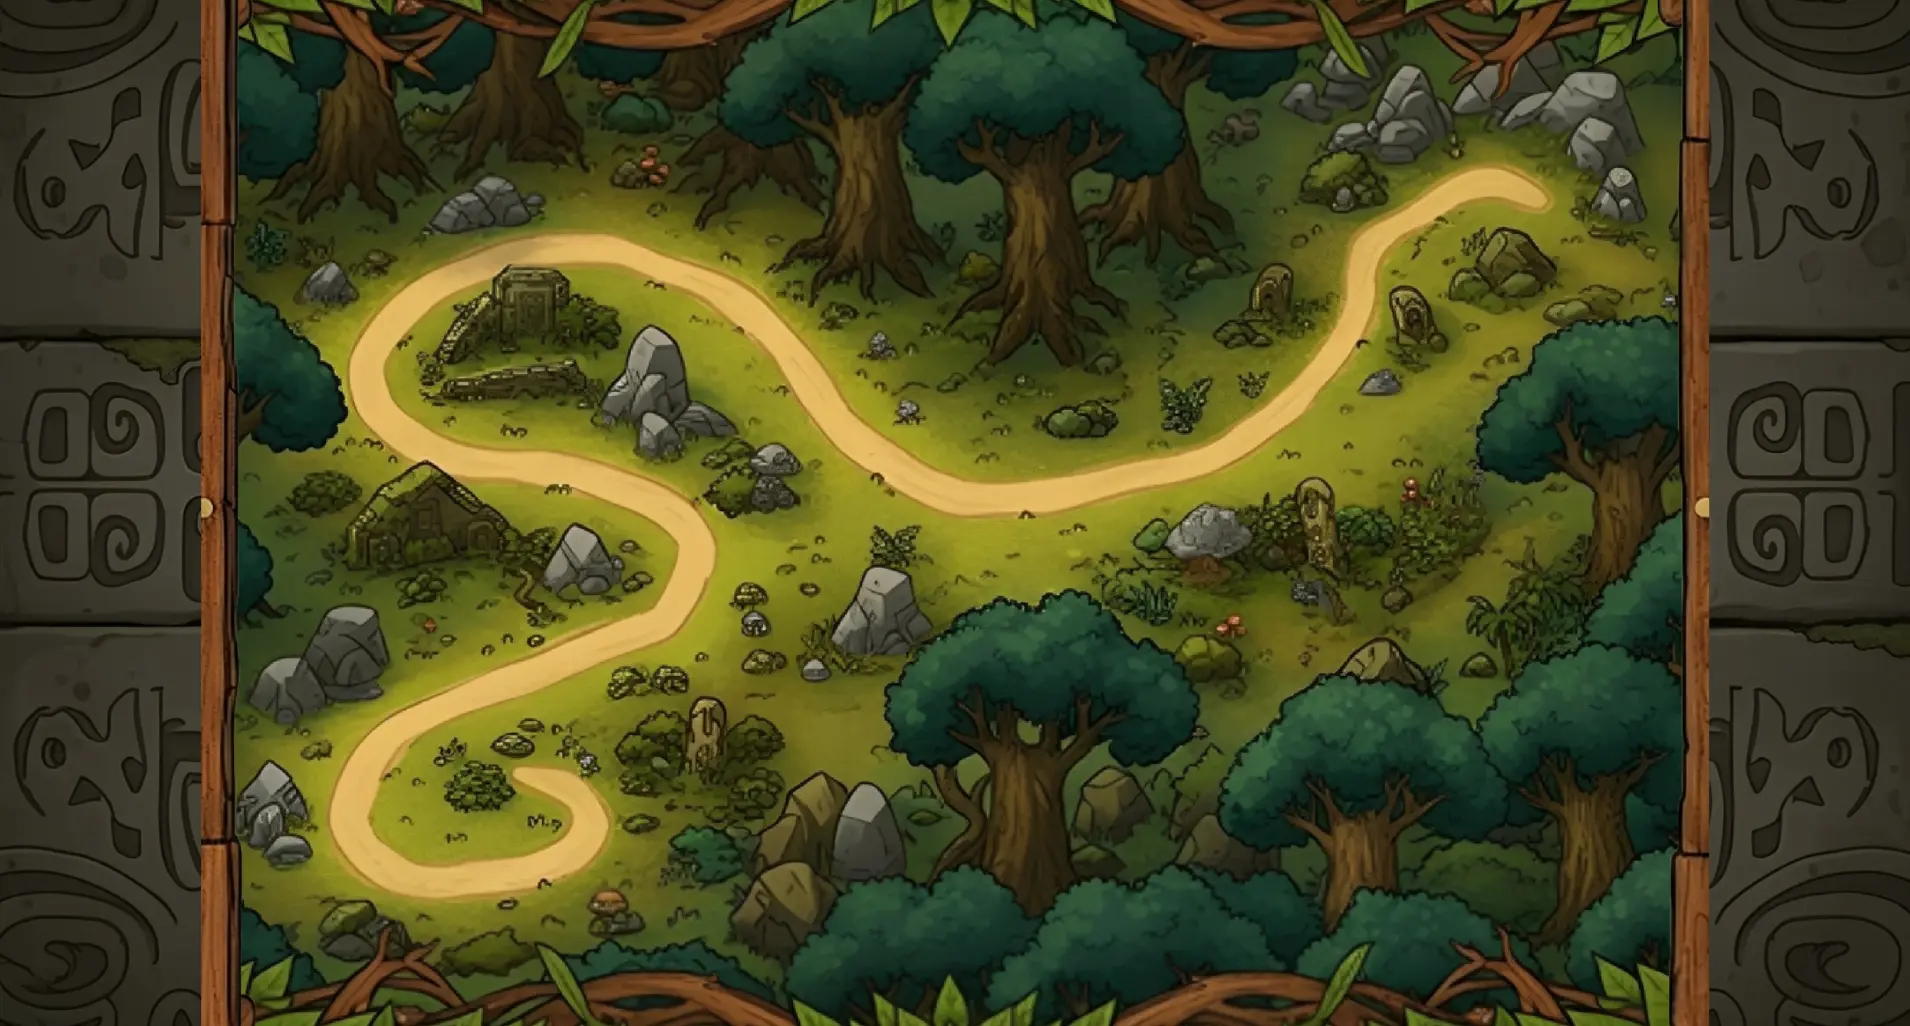
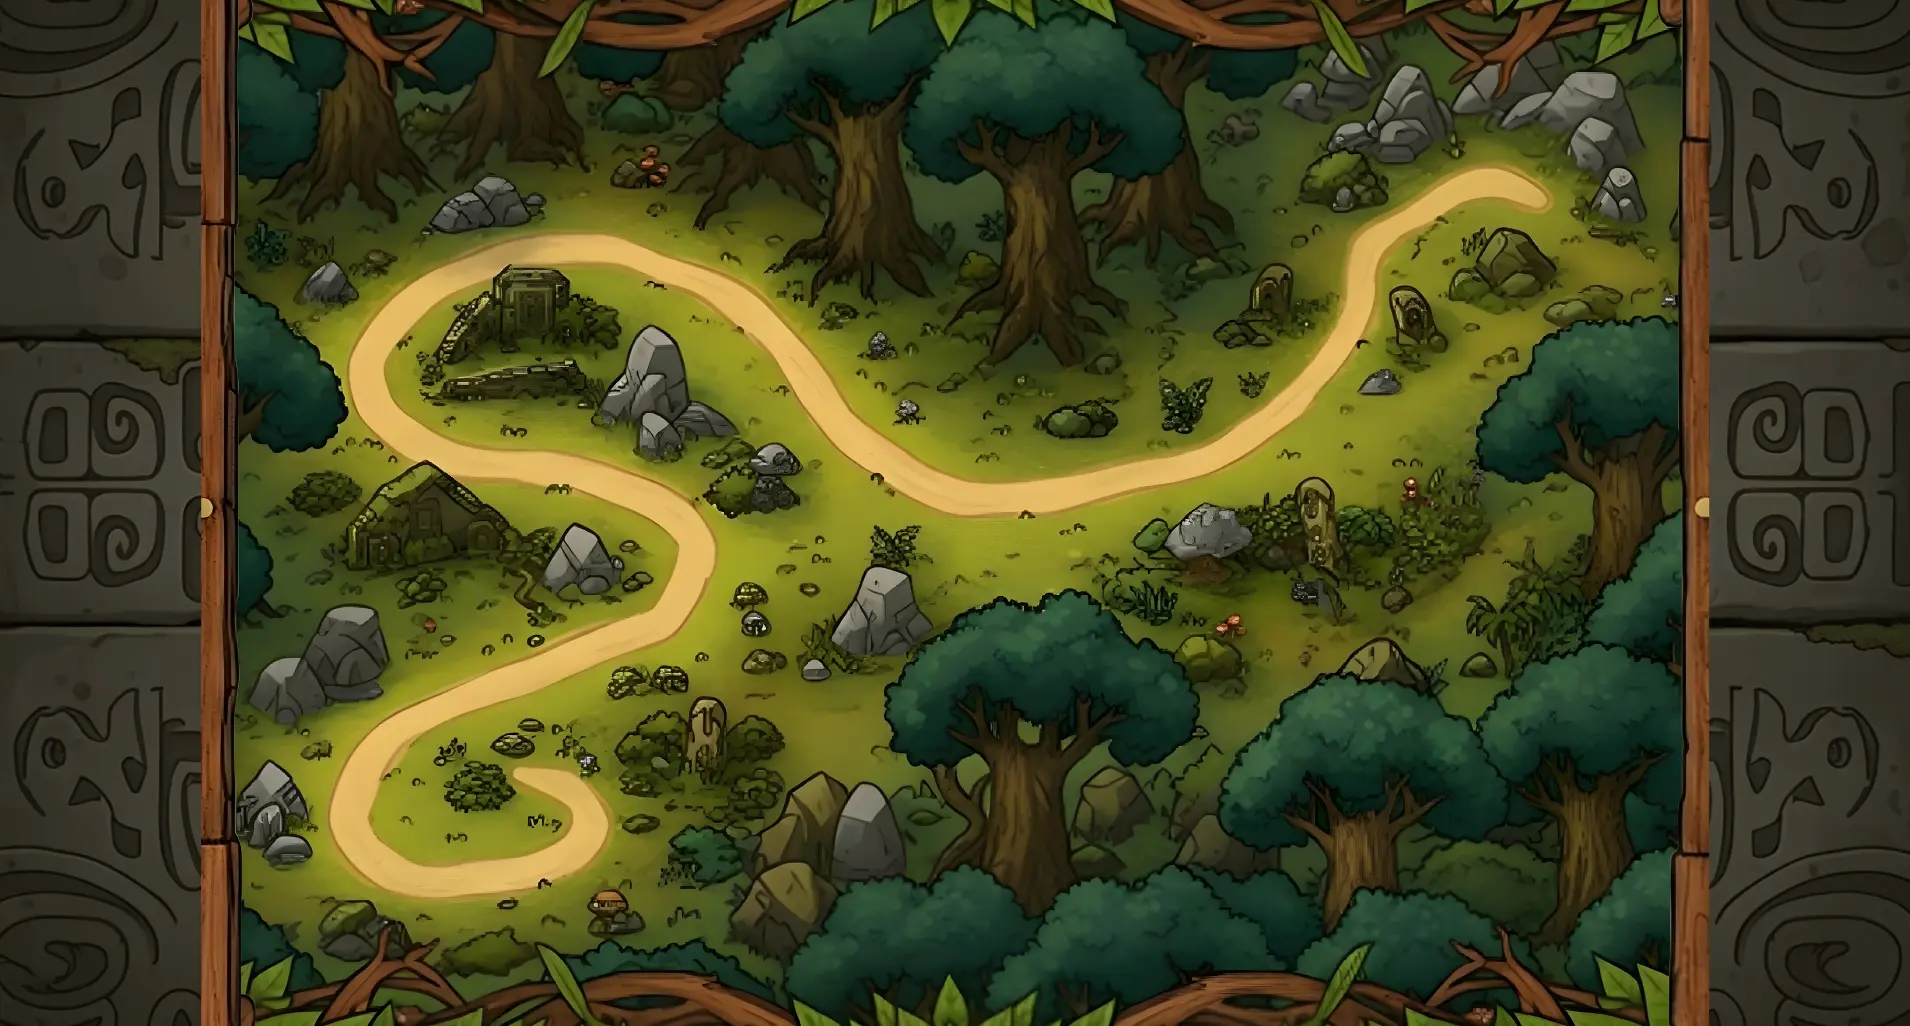
fix: corrigindo movimentação e placas

diff --git a/index.html b/index.html
@@ -12,17 +12,6 @@
     <link rel="stylesheet" href="components/styles/opcoes.css">
     <link rel="stylesheet" href="components/styles/quiz.css">
     <link rel="stylesheet" href="components/styles/tabuleiro.css">
-    <link rel="preload" href="game_assets/quiz/ilha/fundoperguntas.webp" as="image">
-    <link rel="preload" href="game_assets/quiz/ilha/pergunta.webp" as="image">
-    <link rel="preload" href="game_assets/quiz/ilha/opcoes.webp" as="image">
-    <link rel="preload" href="game_assets/quiz/acerto.webp" as="image">
-    <link rel="preload" href="game_assets/quiz/erro1.webp" as="image">
-    <link rel="preload" href="game_assets/quiz/erro2.webp" as="image">
-    <link rel="preload" href="game_assets/creditos/creditos.webp" as="image">
-    <link rel="preload" href="game_assets/opcoes/fundoescuro.webp" as="image">
-    <link rel="preload" href="game_assets/jogar/fundoescuro.webp" as="image">
-    <link rel="preload" href="game_assets/vitoria_e_derrota/Fundo_derrota.webp" as="image">
-    <link rel="preload" href="game_assets/vitoria_e_derrota/Fundo_vitoria.webp" as="image">
     <script src="components/scripts/index.js" defer></script>
 </head>
 
@@ -40,8 +29,8 @@
             <div id="quiz" class="escondido">
                 <div class="quiz_conteudo">
                     <div id="quiz_conteudo_moedas" class="quiz_conteudo_escondido">
-                        <img src="game_assets/quiz/fundoopcao.webp" loading="lazy">
-                        <img src="game_assets/quiz/acerto.webp" class="quiz_conteudo_escondido_texto" loading="lazy">
+                        <img src="game_assets/quiz/fundoopcao.webp">
+                        <img src="game_assets/quiz/acerto.webp" class="quiz_conteudo_escondido_texto">
                     </div>
                     <div id="quiz_conteudo_vidas" class="quiz_conteudo_escondido">
                     </div>
@@ -49,7 +38,7 @@
                         <section id="texto_quiz" class="quiz_conteudo_organizacao_quiz">
                             <div class="quiz_conteudo_organizacao_quiz_pergunta">
                                 <div class="quiz_conteudo_organizacao_quiz_pergunta_imagem">
-                                    <img id="imagem_pergunta" src="" loading="lazy">
+                                    <img id="imagem_pergunta" src="">
                                     <div class="quiz_conteudo_organizacao_quiz_pergunta_texto">
                                         <p id="pergunta"></p>
                                     </div>
@@ -58,7 +47,7 @@
                             <section id="opcoes" class="quiz_conteudo_organizacao_quiz_opcoes">
                             </section>
                         </section>
-                        <img src="" class="quiz_conteudo_organizacao_imagem" loading="lazy">
+                        <img src="" class="quiz_conteudo_organizacao_imagem">
                     </div>
                 </div>
             </div>
@@ -112,8 +101,7 @@
             <div id="tela_final">
                 <div id="tela_vitoria_container" class="tela_final_imagem escondido">
                     <div class="fundo_wrapper">
-                        <img src="game_assets/vitoria_e_derrota/Fundo_vitoria.webp" class="fundo_vitoria"
-                            loading="lazy">
+                        <img src="game_assets/vitoria_e_derrota/Fundo_vitoria.webp" class="fundo_vitoria">
                         <div class="vitoria_conteudo">
                             <div id="moedas_vitoria" class="moedas_final"></div>
 
@@ -121,7 +109,7 @@
                                 onclick="tocarSomClique(); fecharAba('tabuleiro'); fecharAba('aba_mapas'); esconderTelaVitoria(); reiniciarJogo()"
                                 class="reiniciar_jogo" id="reiniciar_jogo_vitoria">
                                 <div class="reiniciar_imagem">
-                                    <img src="game_assets/tabuleiro/iconebarra.webp" loading="lazy">
+                                    <img src="game_assets/tabuleiro/iconebarra.webp">
                                     <div class="menu_imagem_texto">
                                         Voltar ao Menu
                                     </div>
@@ -133,15 +121,14 @@
 
                 <div id="tela_derrota_container" class="tela_final_imagem escondido">
                     <div class="fundo_wrapper">
-                        <img class="fundo_derrota" src="game_assets/vitoria_e_derrota/Fundo_derrota.webp"
-                            loading="lazy">
+                        <img class="fundo_derrota" src="game_assets/vitoria_e_derrota/Fundo_derrota.webp">
                         <div class="derrota_conteudo">
                             <div id="moedas_derrota" class="moedas_final"></div>
 
                             <button onclick="tocarSomClique(); esconderTelaDerrota(); reiniciarJogo()"
                                 class="reiniciar_jogo" id="reiniciar_jogo_derrota">
                                 <div class="reiniciar_imagem">
-                                    <img src="game_assets/tabuleiro/iconebarra.webp" loading="lazy">
+                                    <img src="game_assets/tabuleiro/iconebarra.webp">
                                     <div class="reiniciar_imagem_texto">
                                         Reiniciar
                                     </div>
@@ -311,7 +298,8 @@
                     </button>
                 </div>
 
-            </div> </div>
+            </div>
+        </div>
     </main>
 </body>
 

diff --git a/components/scripts/index.js b/components/scripts/index.js
@@ -340,7 +340,7 @@ document.addEventListener('DOMContentLoaded', () => {
                 '9': { top: '45%', left: '47%' },
                 '10': { top: '45%', left: '60%' },
                 '11': { top: '33%', left: '70%' },
-                '12': { top: '12%', left: '78%' },
+                '12': { top: '15%', left: '78%' },
             },
             waypoints: {
                 '1-2': [{ top: '81%', left: '32%' },],
@@ -403,13 +403,11 @@ document.addEventListener('DOMContentLoaded', () => {
         chavePerguntasAtual = config.chavePerguntas;
         imagemOpcao = config.opcoes;
 
-        // 1. Atualiza o fundo borrado/esticado
         const mapaConteudo = document.querySelector('.tabuleiro_conteudo');
         if (mapaConteudo) {
-            mapaConteudo.style.backgroundImage = `url(${config.imagemFundo})`;
+            mapaConteudo.style.backgroundImage = `url(${config.fundoPergunta})`;
         }
 
-        // 2. Atualiza o mapa nítido (Container proporcional) - IMPORTANTE!
         const mapaProporcional = document.querySelector('.mapa_proporcional');
         if (mapaProporcional) {
             mapaProporcional.style.backgroundImage = `url(${config.imagemFundo})`;

diff --git a/components/styles/quiz.css b/components/styles/quiz.css
@@ -130,9 +130,9 @@
     min-height: 80px;
     font-size: clamp(1.5rem, 3.5vw, 3rem);
     font-family: var(--font-primaria, sans-serif);
-    color: var(--cor-texto-secundario, #3e2723);
+    color: var(--cor-texto-secundario);
     text-align: center;
-    font-weight: bold;
+    font-weight: normal;
 }
 
 .quiz_conteudo_organizacao_quiz_opcoes {
@@ -185,10 +185,17 @@
     z-index: 1;
     font-size: clamp(1.2rem, 2vw, 2rem);
     font-family: var(--font-primaria, sans-serif);
-    color: var(--cor-texto-secundario, #3e2723);
-    font-weight: bold;
+    color: var(--cor-texto-secundario);
+    font-weight: normal;
     white-space: nowrap;
     text-align: center;
+}
+
+.quiz_tema_branco,
+.quiz_tema_branco p,
+.quiz_tema_branco button,
+.quiz_tema_branco .quiz_botao_opcao {
+    color: var(--cor-texto) !important; 
 }
 
 @media (max-width: 900px) {

diff --git a/components/styles/tabuleiro.css b/components/styles/tabuleiro.css
@@ -19,15 +19,6 @@
     background-position: center;
 }
 
-.tabuleiro_conteudo::before {
-    content: "";
-    position: absolute;
-    inset: 0;
-    background-color: rgba(0, 0, 0, 0.6);
-    backdrop-filter: blur(5px);
-    z-index: 0;
-}
-
 .mapa_proporcional {
     position: relative;
     width: 100%;

diff --git a/components/styles/creditos.css b/components/styles/creditos.css
@@ -60,7 +60,7 @@ button.botao_voltar img {
 /* texto dentro da placa */
 button.botao_voltar span {
     position: absolute; /* agora dentro da placa */
-    top: 50%;
+    top: 44%;
     left: 50%;
     transform: translate(-50%, -50%);
     color: var(--cor-texto, white);

diff --git a/components/styles/jogar.css b/components/styles/jogar.css
@@ -59,7 +59,7 @@ html, body {
 
 .jogar_conteudo_espacamento_cabecalho_imagem_texto {
     position: absolute;
-    top: 50%;
+    top: 44%;
     left: 50%;
     transform: translate(-50%, -50%);
     font-size: 2.5rem;

diff --git a/components/styles/opcoes.css b/components/styles/opcoes.css
@@ -125,7 +125,7 @@
 
 .opcoes_conteudo_espacamento_cabecalho_imagem_texto {
     position: absolute;
-    top: 50%;
+    top: 44%;
     left: 50%;
     transform: translate(-50%, -50%);
     font-size: 2.5rem;
